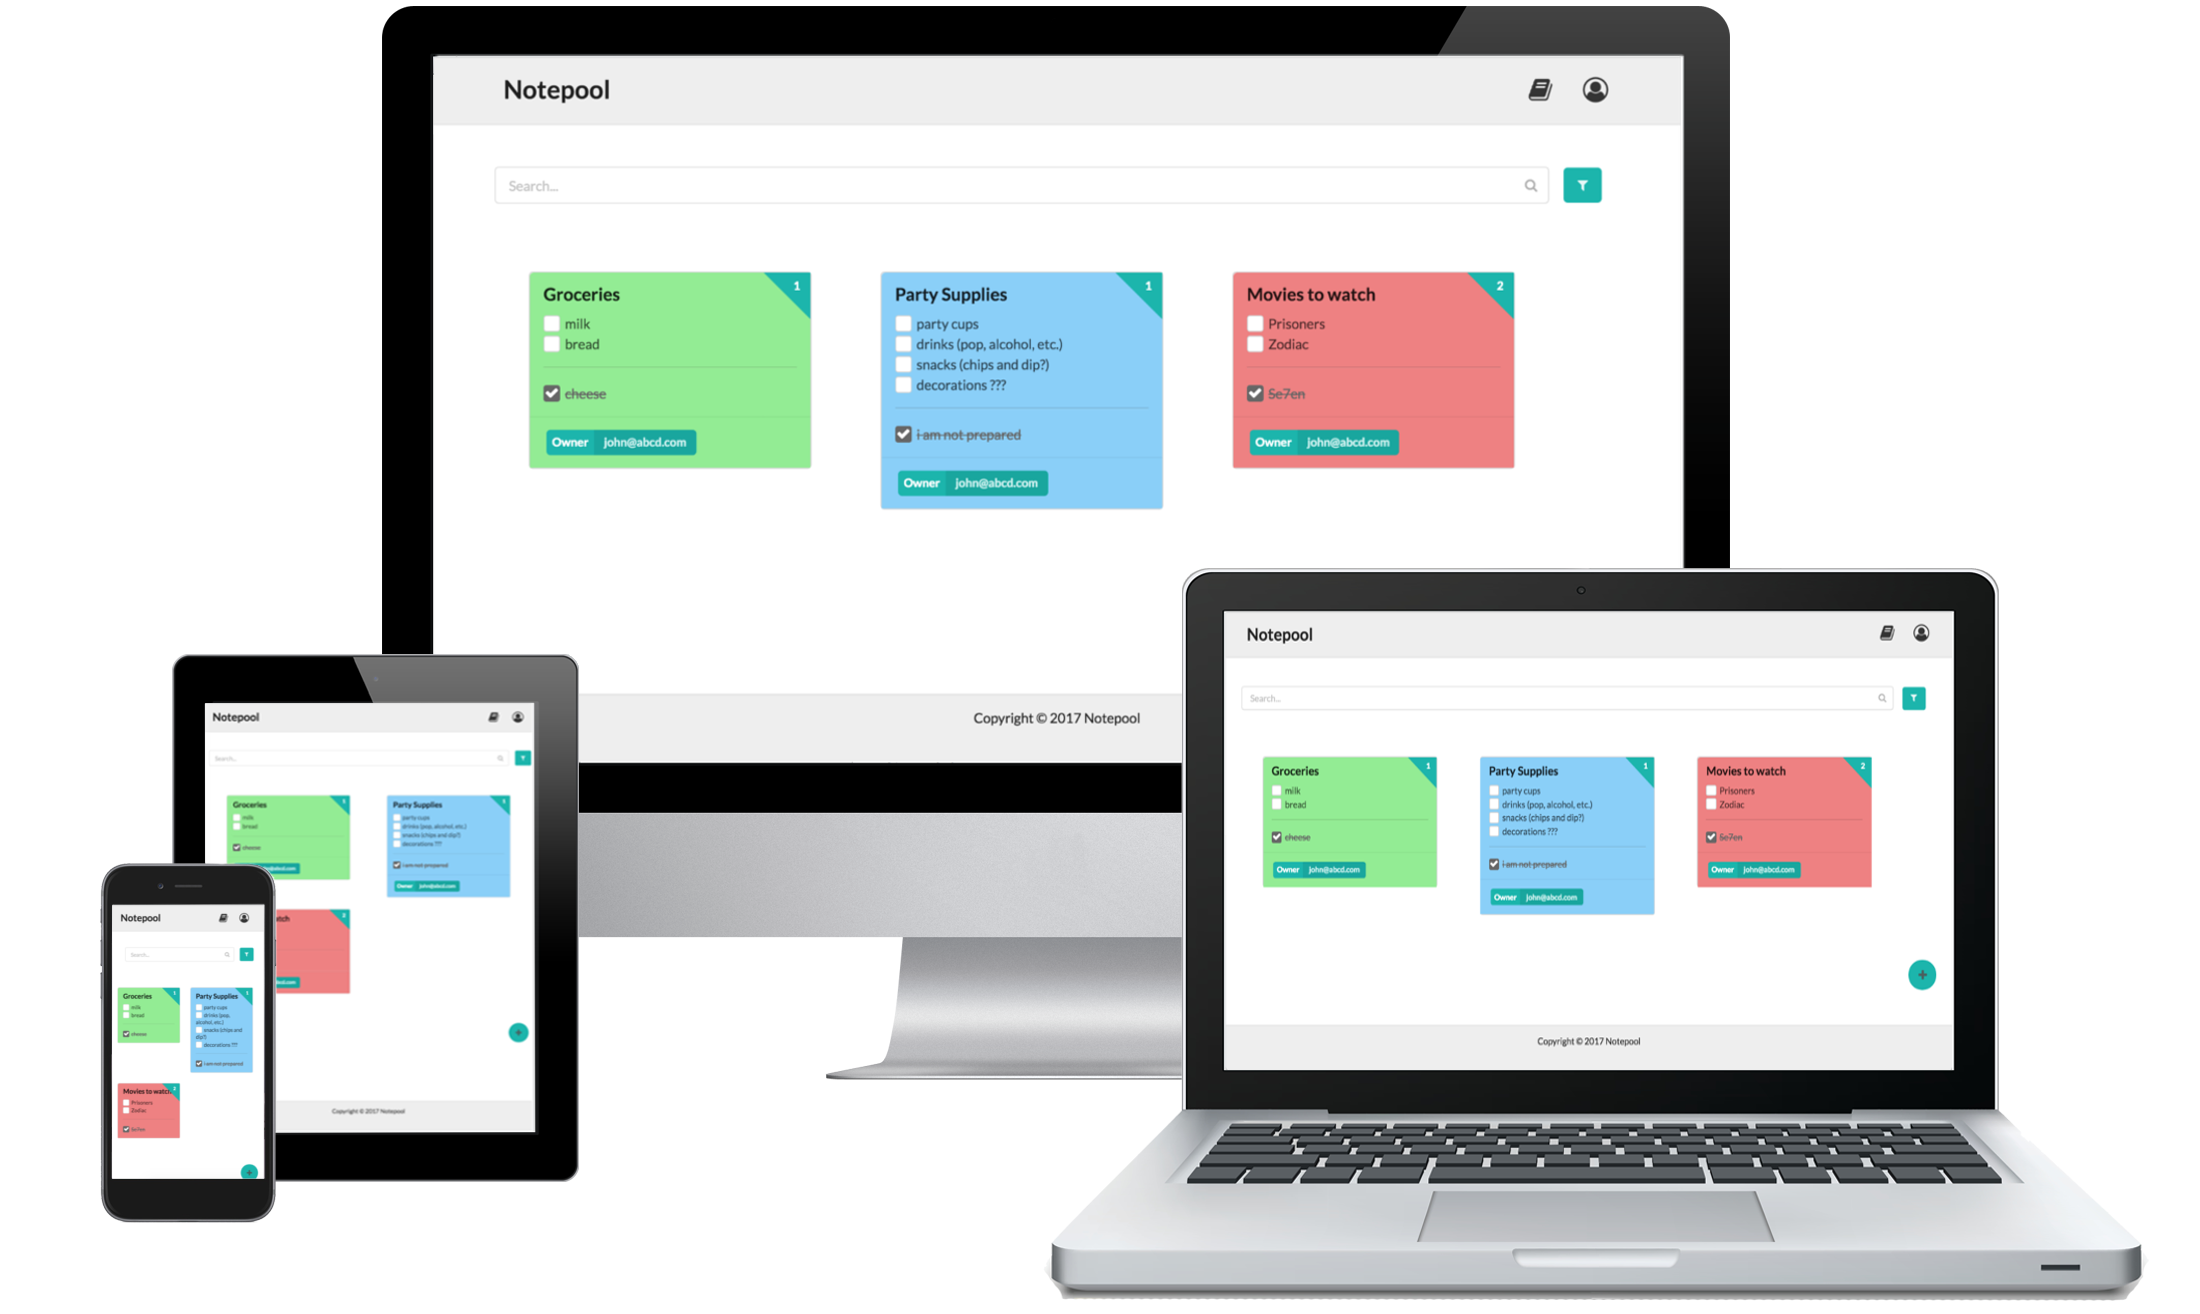
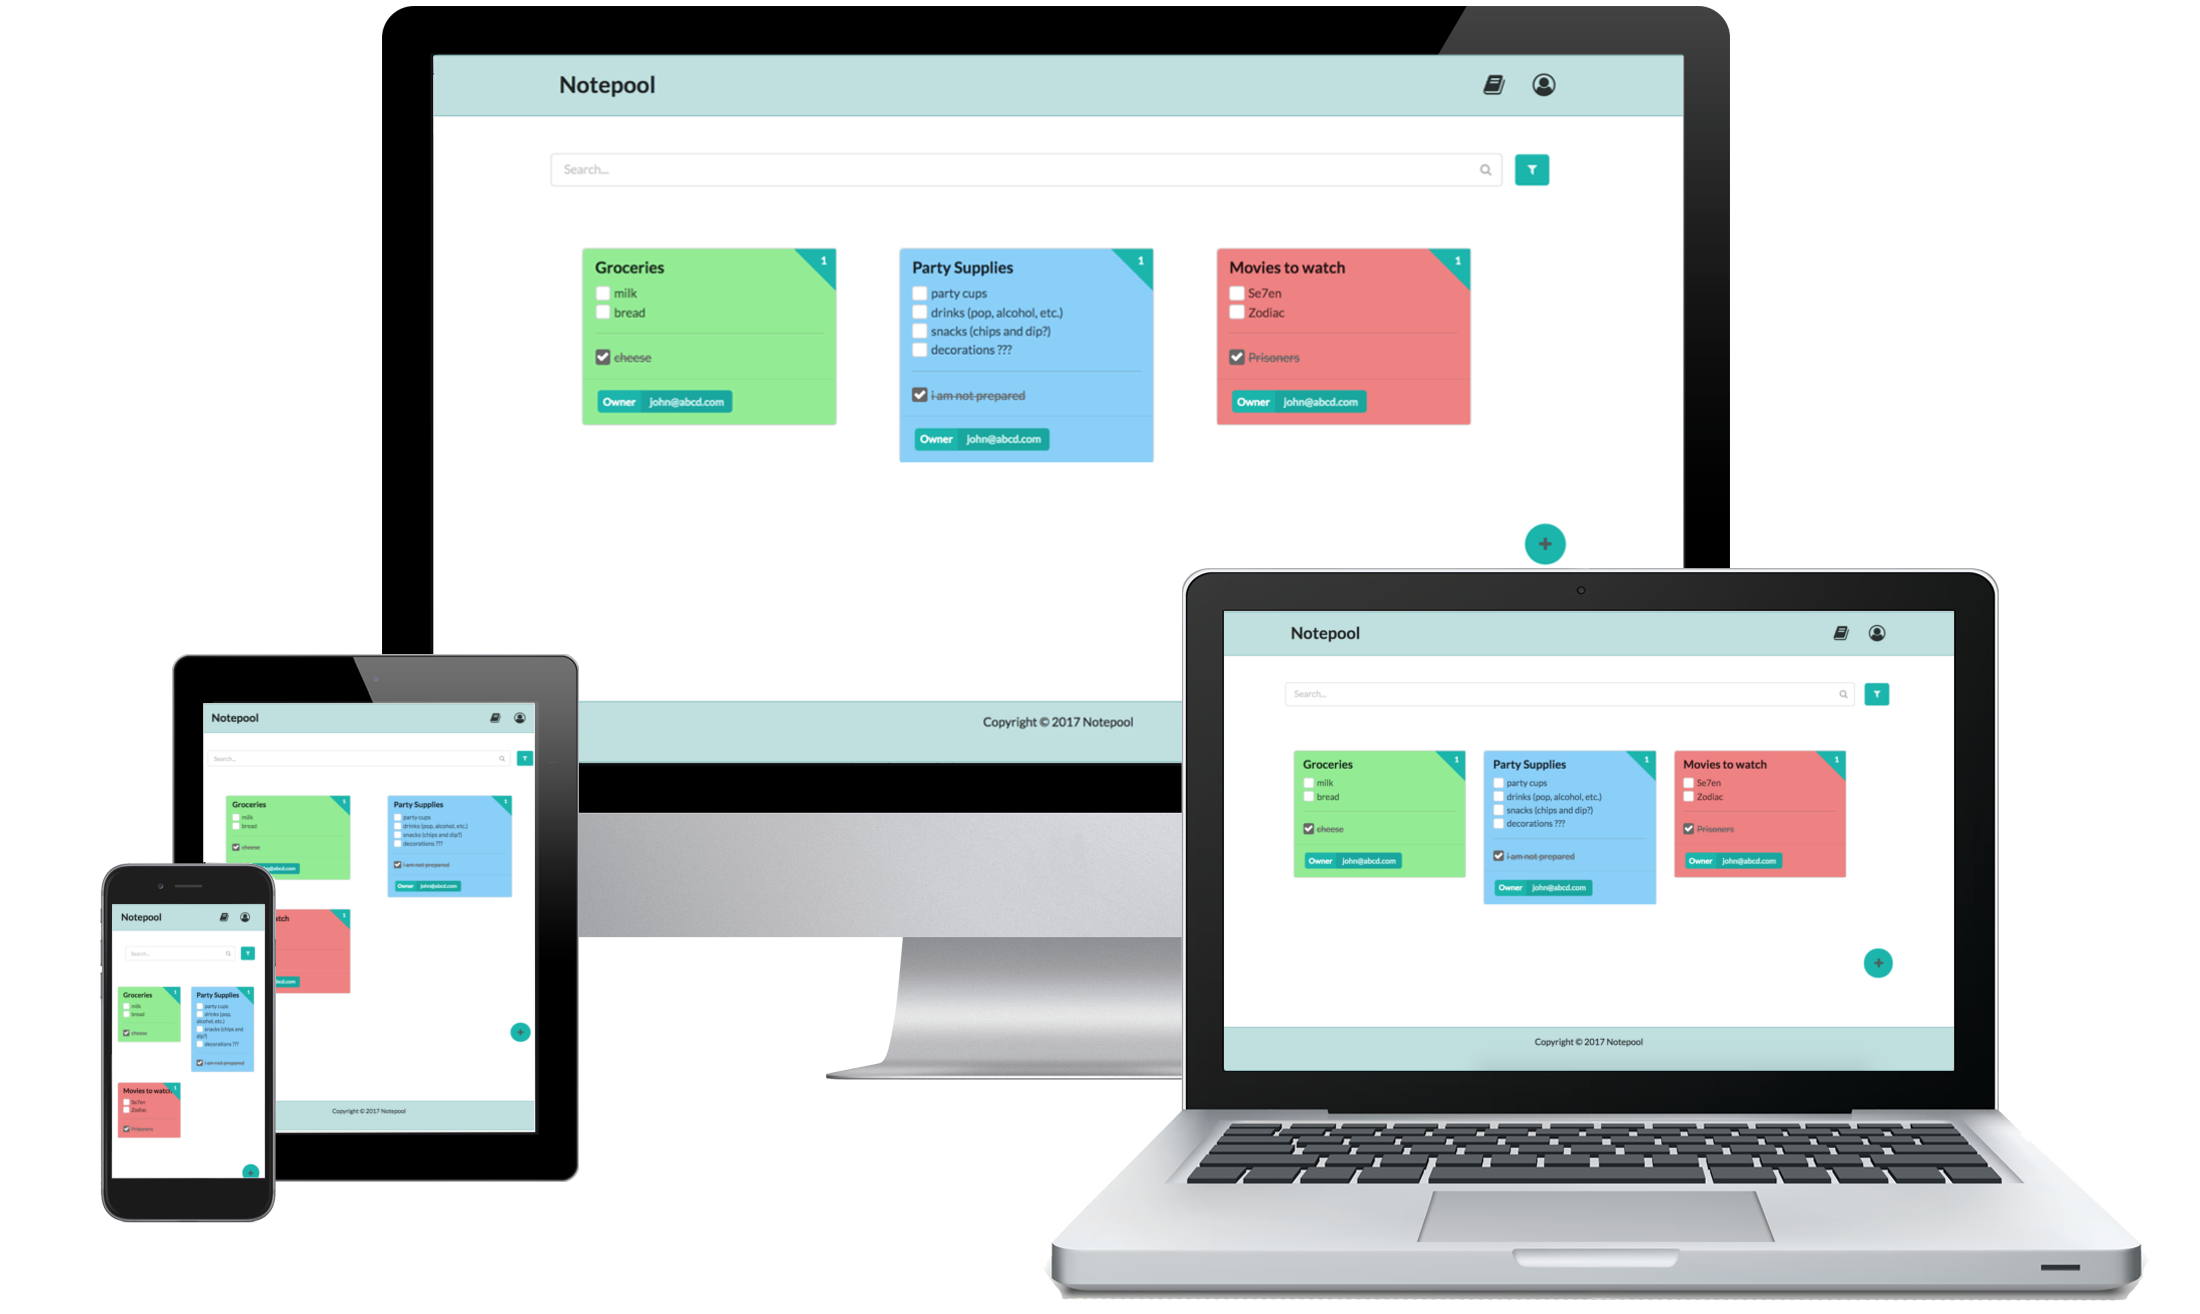
fix home page images/gifs and some general styling

diff --git a/client/app.scss b/client/app.scss
@@ -141,7 +141,7 @@
   padding: 30px 40px;
   width: 600px;
   border: 1px solid #ddd;
-  background: #eee;
+  background: rgba(0, 128, 128, 0.19);
 }
 
 .logreg.container.bottom {
@@ -188,14 +188,20 @@
 
 .home.container {
   width: 100%;
+  border-bottom: 1px solid rgba(0, 128, 128, 0.19);
+  border-top: 1px solid rgba(0, 128, 128, 0.19);
 }
 
 .home.section {
   padding: 1rem;
   text-align: center;
 
-  &:nth-child(even) {
+  &:nth-child(odd) {
     background: #fafafa;
+  }
+
+  &:first-child, &:last-child {
+    background: rgba(0, 128, 128, 0.19);
   }
 }
 
@@ -223,11 +229,11 @@
 
 .navbar, footer {
   padding: 1rem;
-  background: #eee;
+  background: rgba(0, 128, 128, 0.25);
   text-align: center;
   height: 70px;
-  border-bottom: 1px solid #ddd;
-  border-top: 1px solid #ddd;
+  border-bottom: 1px solid rgba(0, 128, 128, 0.4);
+  border-top: 1px solid rgba(0, 128, 128, 0.4);
 }
 
 .navbar .ui.huge.header {
@@ -256,7 +262,7 @@
 
 .main-container {
   min-height: calc(100vh - 140px);
-  padding: 0.1rem;
+  padding: 0.01rem;
 }
 
 .ui.centered.card, .ui.centered.card:hover {

diff --git a/client/components/containers/Navbar.js b/client/components/containers/Navbar.js
@@ -25,10 +25,10 @@ class Navbar extends Component {
       return(
         <Menu.Menu>
           <Menu.Item name='register'>
-            <Button inverted color='green' as={Link} to='/profile/register'>Register</Button>
+            <Button color='teal' as={Link} to='/profile/register'>Register</Button>
           </Menu.Item>
           <Menu.Item name='login'>
-            <Button inverted color='green' as={Link} to='/profile/login'>Login</Button>
+            <Button color='teal' as={Link} to='/profile/login'>Login</Button>
           </Menu.Item>
         </Menu.Menu>
       )

diff --git a/client/components/presentation/Home.js b/client/components/presentation/Home.js
@@ -78,7 +78,7 @@ const Home = (props) => {
         <Header size='huge'>
           Try Notepool for free today!
         </Header>
-        <Button inverted color='green' size='huge' as={Link} to='/profile/register'>Register</Button>
+        <Button color='teal' size='huge' as={Link} to='/profile/register'>Register</Button>
       </div>
     </div>
   )
